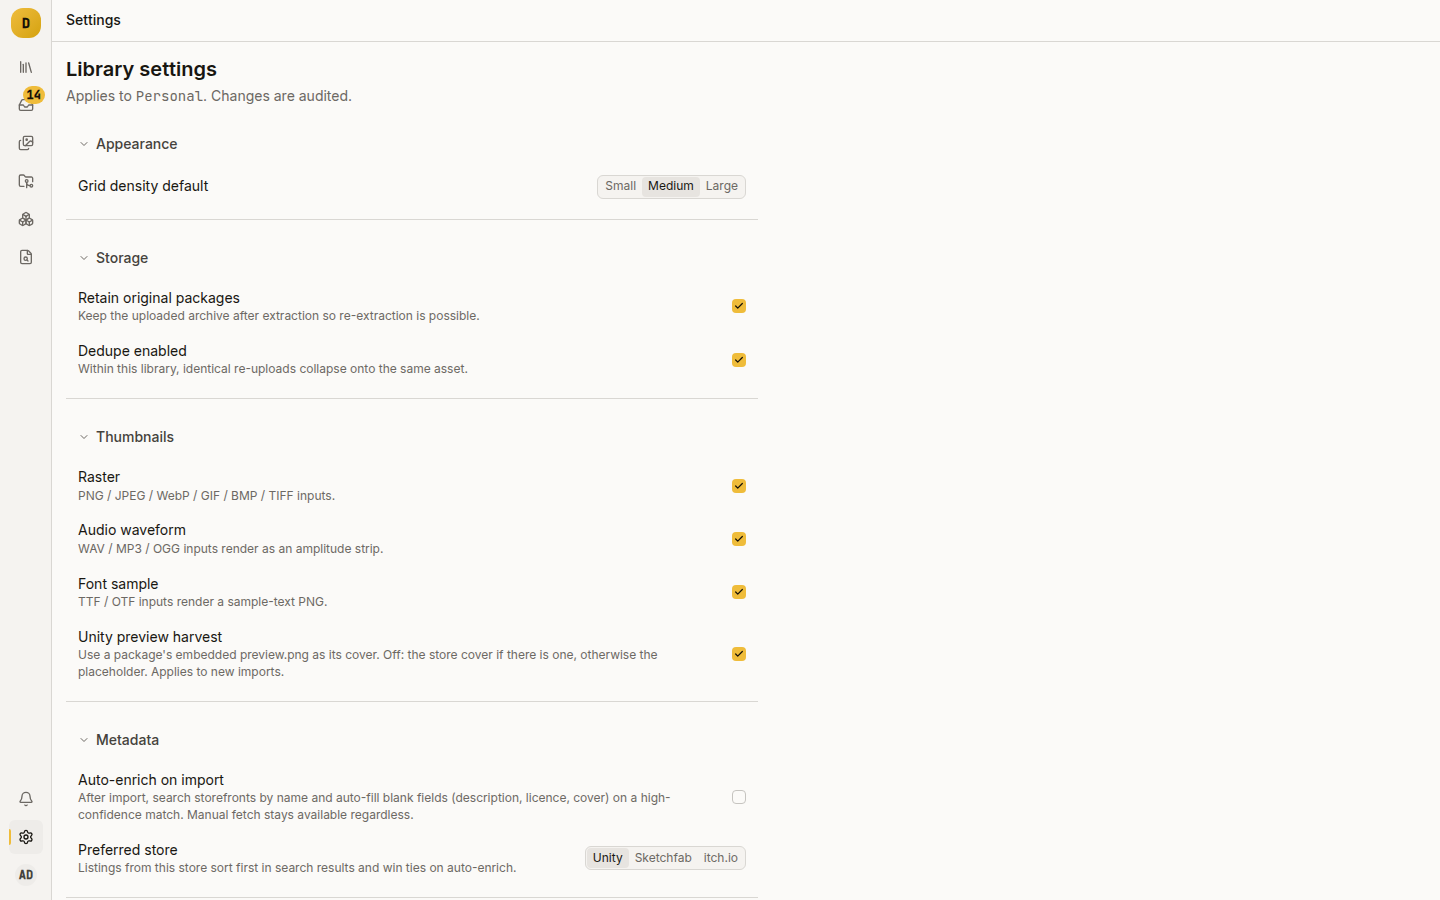
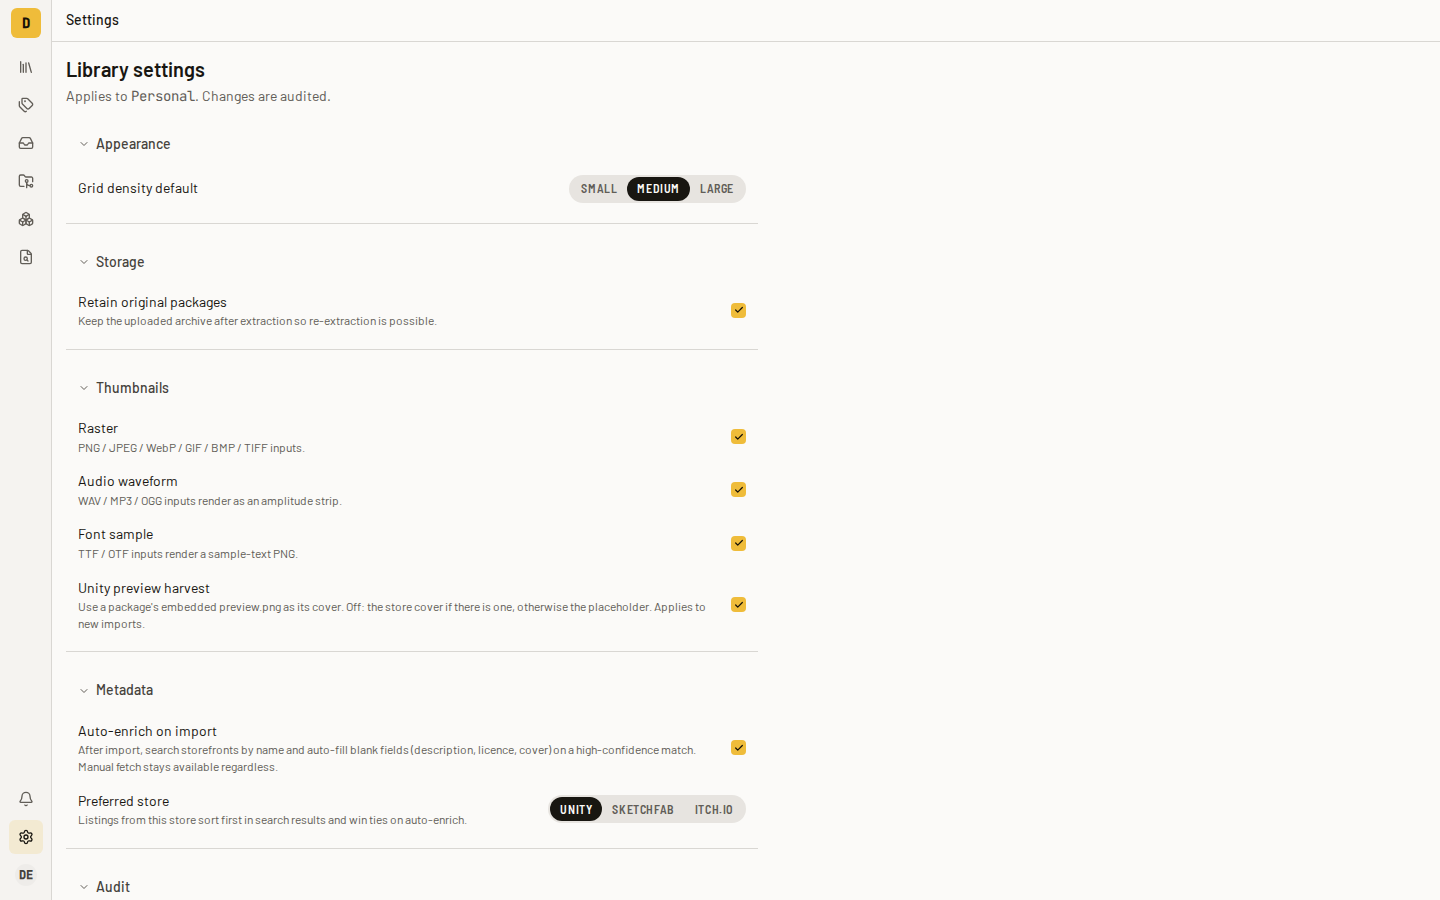
Format, retake the settings screenshot, and add the implementation report

diff --git a/web/src/pages/ProjectsPage.tsx b/web/src/pages/ProjectsPage.tsx
@@ -90,7 +90,9 @@ export function ProjectsPage() {
                     glyph={p.glyph || p.name.slice(0, 1).toUpperCase()}
                     color={p.glyph_color || "oklch(0.4 0.14 260)"}
                     distribution={
-                      p.target_distribution ? targetDistributionLabel(p.target_distribution) : undefined
+                      p.target_distribution
+                        ? targetDistributionLabel(p.target_distribution)
+                        : undefined
                     }
                     onOpen={() => navigate(`/projects/${p.id}`)}
                   >

diff --git a/web/src/App.tsx b/web/src/App.tsx
@@ -43,4 +43,3 @@ export default function App() {
     </NotificationProvider>
   );
 }
-

diff --git a/docs/specs/2026-11-02-remove-dead-settings-and-code.md b/docs/specs/2026-11-02-remove-dead-settings-and-code.md
@@ -1,0 +1,121 @@
+# Remove dead settings, stale redirects and unused code
+
+Covers no board Task.
+
+## Why are we doing this
+
+The repo is going public. Settings that do nothing, copy that promises a missing feature, a one-off
+boot repair, old-address redirects and dead code should not be the first thing a reader finds.
+
+## Steering
+
+- "I am wanting to make it public on my github" — repository, 2026-10-21, session 477946a3-d94e-482d-a814-e822cc4041f0
+- "Have licence compliance be a future feature - we should track it" — agreeing to: what happens to a project's Target distribution, whose copy promises licence compliance checks? — licence compliance, 2026-11-02, session 402f89ce-20d9-46ff-b3d1-1c7b2799a9e6
+
+## Design
+
+none — operator asked for the six removals from the pre-public audit: "create a plan for 1-6"
+
+## Decisions
+
+### What happens to "Dedupe enabled" and "Auto-update licence knowledge base"?
+Answer: Remove both completely: the UI toggles and read-only rows, the API fields, the GORM fields and the docs rows. Drop `library_settings.dedupe_enabled` and `server_settings.licence_kb_auto_update` in a new migration.
+By: recommended, operator chose "Drop the DB columns too" (2026-11-02)
+
+### What happens to a project's Target distribution?
+Answer: Keep the field, its column and its API. Licence compliance checks are a future feature. Until then the UI makes no promise of checks: the create form copy stops saying projects "track licence compliance" and that the field is "Used later for licence compliance checks", and the project page shows the value as a readable label, not the raw string. Rename the ProjectCard prop `engine` to a name that matches what it holds.
+By: operator — "Have licence compliance be a future feature - we should track it", then chose "Keep it, honest copy" (2026-11-02)
+
+### Is `useCreateLibrary` kept for a possible "New library" button?
+Answer: No. Remove it now.
+By: operator — chose "Remove it now" (2026-11-02)
+
+### What goes with the gallery repair?
+Answer: Remove `enrich.RepairGallery`, its tests and its boot call. The server no longer lists the `thumbs/` prefix at startup.
+By: operator — "create a plan for 1-6", agreeing to the audit's verdict to remove it (2026-11-02)
+
+### What goes with the old-address redirects?
+Answer: Remove the `/processing` and `/library/:assetId/browse` routes, the `BrowseRedirect` component, the e2e assertions that visit those addresses, and the mentions of them in `docs/e2e-flows.md`.
+By: operator — "create a plan for 1-6", agreeing to the audit's verdict to remove them (2026-11-02)
+
+### What other dead code goes?
+Answer: The `Slider` primitive, its export, its use in the Radix atoms story and the `@radix-ui/react-slider` dependency; and `queryKeys.assetLicence`.
+By: operator — "create a plan for 1-6", agreeing to the audit's verdict to remove them (2026-11-02)
+
+## Acceptance
+
+- Library settings show no "Dedupe enabled" toggle or read-only row, and Settings › Server shows no "Auto-update licence knowledge base".
+- `GET /api/settings` has no `dedupe_enabled` and `GET /api/admin/settings` has no `licence_kb_auto_update`.
+- An existing database starts on the new build and loses both columns; a fresh database never has them.
+- `docs/configuration.md` and `docs/how-to/separate-libraries.md` no longer mention either setting.
+- The new-project form and the projects page say nothing about licence compliance checks, and a project page shows its target distribution as a readable label.
+- Creating a project with a target distribution still stores and shows it.
+- Server startup no longer runs the gallery repair.
+- Visiting `/processing` or `/library/<id>/browse` no longer redirects, and `docs/e2e-flows.md` no longer lists those addresses as covered.
+- `Slider`, `@radix-ui/react-slider`, `queryKeys.assetLicence` and `useCreateLibrary` are gone from `web/`.
+- `just check` passes.
+
+## Out of scope
+
+- `ingest.BackfillCovers` and `preview.QueueNewlySupported`.
+- Building licence compliance checks.
+- Keeping or removing multi-user and multi-library support, including a "New library" button.
+- Every other item from the pre-public audit.
+
+## Start here
+
+- `docs/CONVENTIONS.md` (Database Migrations)
+- `internal/handlers/api/settings.go`
+- `internal/handlers/api/admin.go`
+- `web/src/pages/ProjectsPage.tsx`
+- `docs/e2e-flows.md`
+
+## Deferred follow-ups
+
+None
+
+## Implementation report
+
+Mode: committing — branch `chore/remove-dead-settings-and-code`, one commit per stage (repo rule), no push, no PR.
+
+### Stages
+
+1. Remove "Dedupe enabled" and "Auto-update licence knowledge base": UI, API, GORM, docs, and a migration dropping both columns.
+2. Target distribution: honest copy on the create form and projects page, readable label on the project page, rename the ProjectCard `engine` prop.
+3. Remove `enrich.RepairGallery`, its tests and its boot call.
+4. Remove the `/processing` and `/library/:assetId/browse` redirects, `BrowseRedirect`, their e2e assertions and their `docs/e2e-flows.md` mentions.
+5. Remove `Slider` (primitive, export, story use, `@radix-ui/react-slider`), `queryKeys.assetLicence` and `useCreateLibrary`.
+
+### Choices made
+
+Written at close, not per stage.
+
+- `web/src/lib/targetDistribution.ts`: value → label map mirroring `lib/stores.ts`; unknown values render raw.
+- `web/src/design-system/domain/ProjectCard.tsx`: the prop is `distribution` (a display label); story fixtures now hold distribution labels instead of engine names.
+- `web/src/pages/ProjectsPage.tsx`: new copy, "Projects pin specific asset versions for a game or build." and "How you plan to release the project."
+- `database/migrations/034_drop_dead_settings.sql`: one migration drops both columns, mirroring `028_drop_theme_default.sql`.
+
+### Review — stages 1…5
+
+#### Verdict
+No blockers
+
+#### Checked
+repo rules (AGENTS.md, docs/CONVENTIONS.md Database Migrations, frontend API discipline, query keys in `lib/queryKeys.ts`), documented hazards (schema change in both migration and GORM struct: both columns dropped in `034_drop_dead_settings.sql` and `models/settings.go`; migration wrapped in `BEGIN; … COMMIT;` and idempotent with `IF EXISTS`; `default:` tag hazard n/a for dropped fields; library_id scoping untouched; doc-update rule: `configuration.md`, `how-to/separate-libraries.md`, `e2e-flows.md` updated), mechanical shape conformance (`serverSettingsView`, `librarySettingsView`, patch requests, TS `ServerSettings`/`LibrarySettings`/`LibrarySettingsPatch`/`SettingsView` all lose the field on both sides), cross-boundary contract (API JSON ↔ TS types agree; `TARGET_DISTRIBUTIONS` values match `allowedDistributions` in `internal/handlers/api/projects.go:122`), leftover-reference sweep (no `dedupe_enabled`, `licence_kb_auto_update`, `RepairGallery`, `BrowseRedirect`, `/processing`, `Slider`, `react-slider`, `assetLicence`, `useCreateLibrary`, `engine=` outside migrations 005/034 and specs), logic (label fallback to raw value for unknown distributions; card shows label only when set; e2e `header` locator matches `<header>` at `ProjectDetailPage.tsx:128`), error handling, silent failure (old clients sending the dropped fields are ignored by JSON binding, not rejected — correct for removed optional fields), security (admin and library settings routes keep their guards; no auth change), state/idempotency (migration re-runnable), data (old audit diffs keep the removed keys as history; nothing renders them by name), tests (preflight audit test moved to `retain_original_packages`; new unit and e2e assertions cover the readable label and a stored distribution), smell baseline · issues in: none · n/a: change-type blocks (quick depth), risk-and-omissions sweep (quick depth), performance (removals only, cold paths), credentials (none touched) · validation: in-context, 0 candidates, 0 confirmed, 0 refuted
+
+### Results
+
+| Item | Status | Notes |
+| --- | --- | --- |
+| No Dedupe toggle/row; no licence-KB auto-update in Settings › Server | passed | Playwright against `just dev`: 0 matches for /Dedupe/ and /knowledge base/ on /settings; Server settings section reads only "Max upload bytes". No test added: a deletion has no behaviour left to protect. |
+| `GET /api/settings` / `GET /api/admin/settings` lack the fields | passed | curl against `just dev`: neither key present. Preflight audit test now flips `retain_original_packages`. |
+| Existing DB loses both columns; fresh DB never has them | passed | Booted `main`'s build against the empty dev DB (both columns created), then the branch: `information_schema` count 0. `damson_test` after the e2e run: 0. |
+| `configuration.md`, `separate-libraries.md` no longer mention them | passed | rows and the "dedupe" mention removed; `docs/images/settings-page.png` retaken (light, 1440×900, dev admin so avatar reads "DE"). |
+| No licence-compliance copy; project page shows a readable label | passed | Playwright: dialog and projects page have 0 matches for /compliance\|compatib/; header shows "Commercial". Unit `ProjectDetailPage header` fails when the label is replaced by the raw value (confirmed). |
+| Creating a project with a target distribution stores and shows it | passed | e2e `projects.spec.ts` now picks "Open source" and asserts it in the header after create, against the real API and Postgres; fails if the value is dropped or shown raw. Also curl POST returned `commercial`. |
+| Startup no longer runs the gallery repair | passed | `RepairGallery` and its boot call removed; `just build backend` succeeds. No test: removal. `RepairGallery` was silent when nothing was missing, so its absence is not visible in boot logs. |
+| `/processing` and `/library/<id>/browse` no longer redirect; e2e-flows updated | passed | Playwright: both URLs stay put. Two e2e assertions retired (triage, package page). |
+| `Slider`, `@radix-ui/react-slider`, `queryKeys.assetLicence`, `useCreateLibrary` gone | passed | grep over `web/` finds none; `pnpm remove` updated the lockfile. |
+| `just check` | passed | second run exit 0 (Vitest 570, story tests 155, e2e 37, Go 24 packages ok). First run failed on Prettier in `App.tsx` and `ProjectsPage.tsx`; fixed with `just format`. |
+| review: stages 1…5 | passed | `### Review — stages 1…5`, no blockers. |
+
